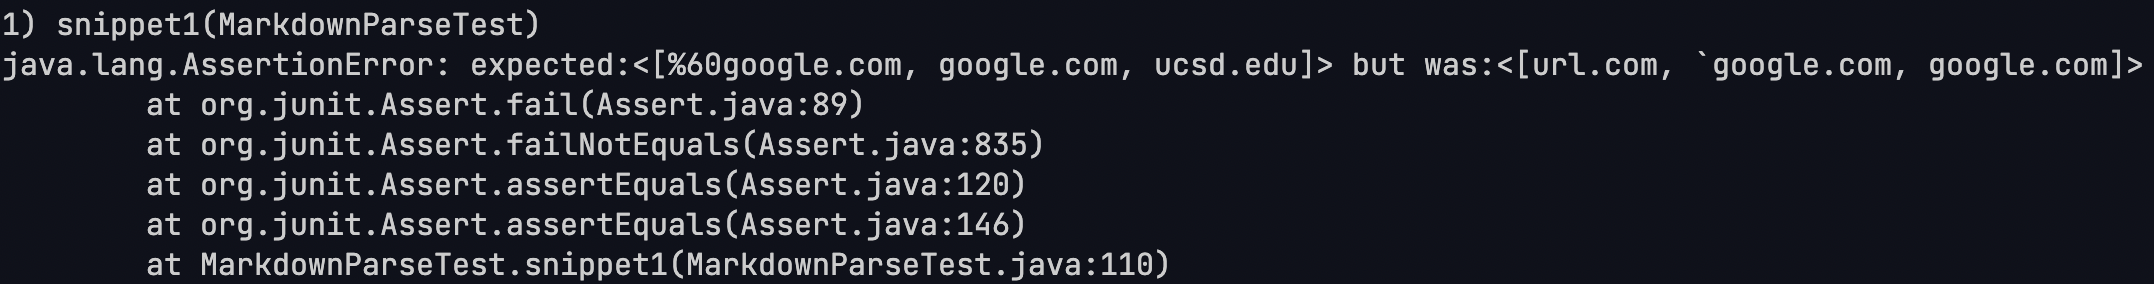
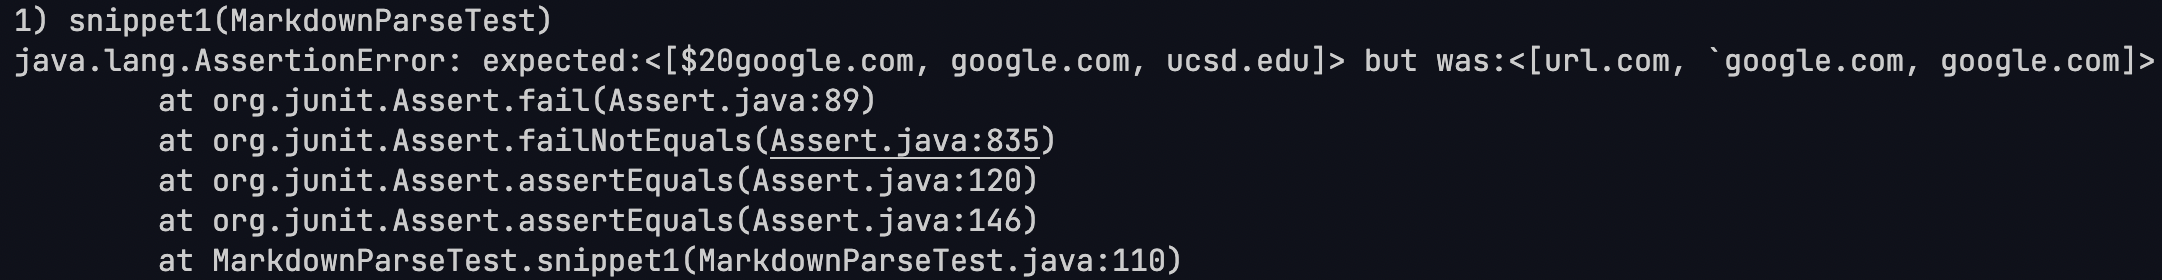
Final Version

diff --git a/lab-report-4-week8.md b/lab-report-4-week8.md
@@ -12,7 +12,7 @@
 	    String contents = Files.readString(fileName);
         ArrayList<String> links = MarkdownParse.getLinks(contents);
         ArrayList<String> expected = new ArrayList<>();
-        expected.add("%60google.com");
+        expected.add("$20google.com");
         expected.add("google.com");
         expected.add("ucsd.edu");
         assertEquals(expected, links);
@@ -42,12 +42,19 @@
 ```
 
 ## Expected Results:  
-- Snippet1:[%60google.com, google.com, ucsd.edu]  
-    - ✅ Complete code block inside ``[]``
-    - %60 is the url-encoding for `` ` ``  
-    - ⚠
+- Snippet1:[%60google.com, google.com, ucsd.edu]
+    - url.com shouldn't be a link since ``[]`` section has backticks and that shouldn't taken into account as part of the link syntax.
+    - $20 is the url-encoding for `` ` ``.
+    - Complete code block inside ``[]`` is fine.
 
-- Snippet2:[a.com, a.com(()), example.com] 
+- Snippet2:[a.com, a.com(()), example.com]
+    - Complete link within ``[]`` is fine.
+    - Inside of parentheses ``()`` should be counted as link.
+    - ``\`` should be included in the text of the link, not end of ``[]`` link syntax.
+
+- Snippet3:[https://ucsd-cse15l-w22.github.io/]
+    - More than one new lines consecutively entered in ``[]``.
+    - Single new lines before and after link in ``()`` is fine and should be kept as links.
 ## Snippet Fail of My Code  
 Snippet 1 JUnitFail:  
 ![Image](images/lab-report4/s1JunitFail.png)  
@@ -70,7 +77,8 @@ Snippet 3 JUnitFail:
 
 ## Can the program be fixed in <10 lines?  
 ### Snippet 1:
-
+- No, not only do we look for the beginning and end of each backtick return that indicates the end of a code section, but we also check for cases where the backticks return is ignored and treated as normal text (i.e., inside the parentheses).
 ### Snippet 2:
-
+- Yes, this could be done by having a check or making a function to see if there are nested parentheses in the link area.
 ### Snippet 3:
+- No, links become non-links only when multiple newlines are entered in a row of the brackets and the newlines are strictly before and/or after the bracketed text. Our program needs to check that no more than one newline is entered and then trim the extra lines before and after the brackets, but allow newlines between non-blank characters in the bracketed, string, resulting in a large number of if statements.
